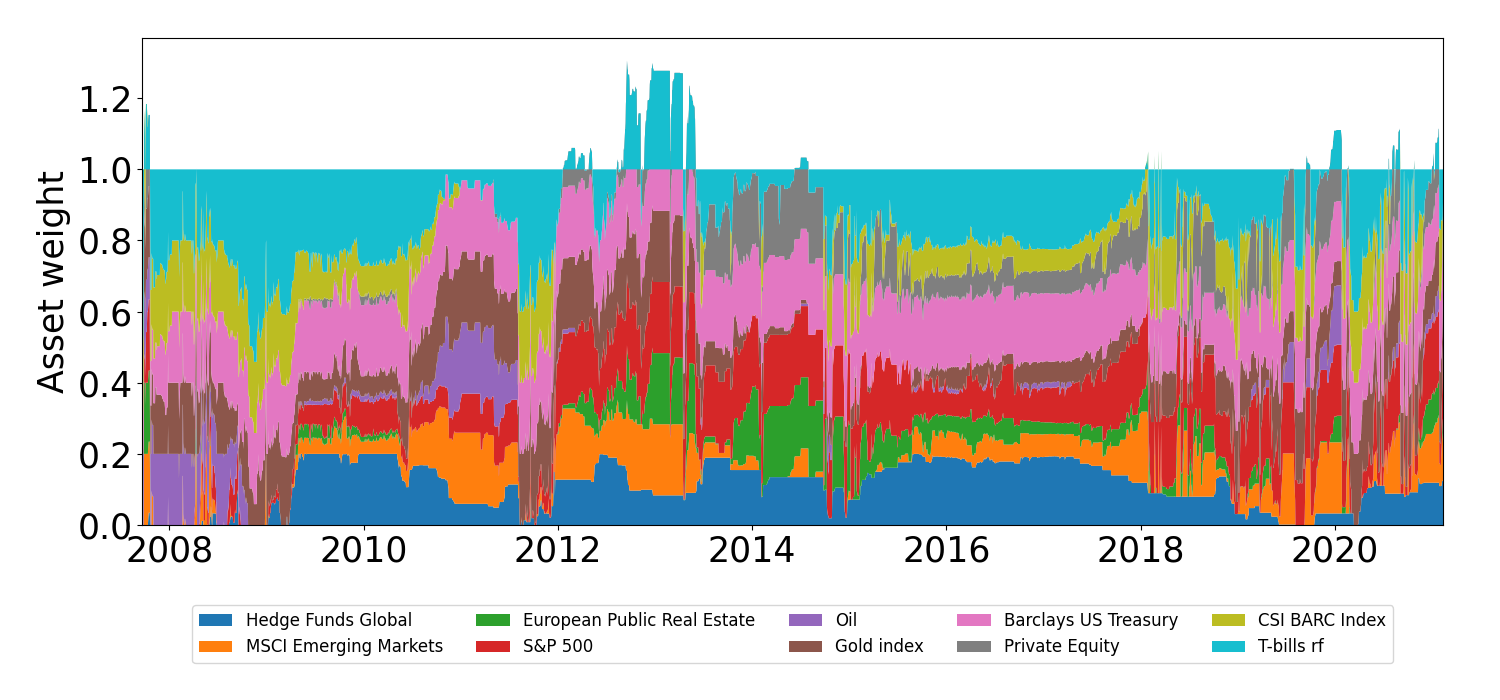
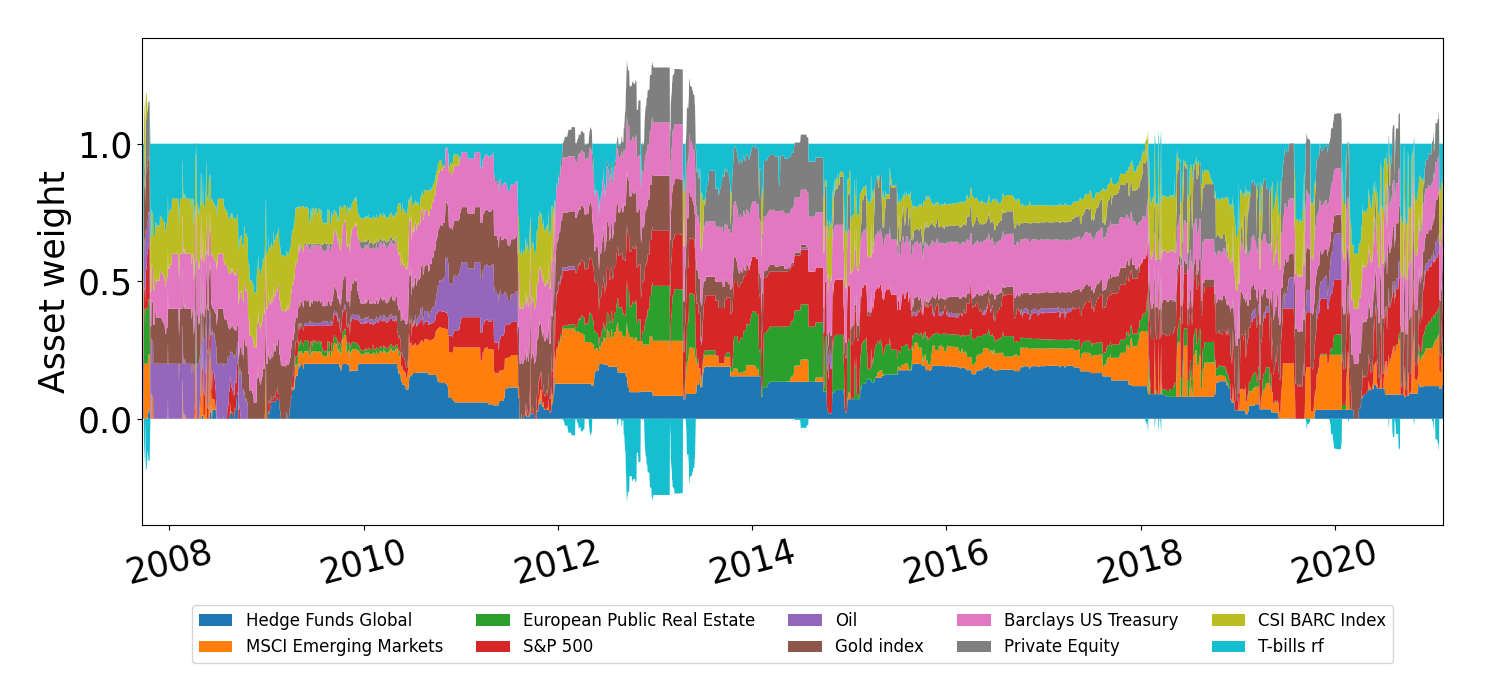
Updated graphs

diff --git a/analysis/portfolio_exercise/plot_frontiers.py b/analysis/portfolio_exercise/plot_frontiers.py
@@ -40,9 +40,57 @@ def plot_frontier(df_metrics, ew_metrics, savefig=None):
 
     plt.show()
 
-def plot_port_val(df_frontiers, ew_port_val,
-                  to_plots=[('LO', 1000), ('LO', 0.10), ('LO', 0.15)],
-                  start=None, savefig=None):
+def plot_sharpe_frontier(df_metrics, ew_metrics, savefig=None):
+    gammas = [1,3,5,10,15,25]
+    # Plotting
+    plt.rcParams.update({'font.size': 25})
+    fig, axes = plt.subplots(nrows=2, ncols=1, figsize=(15, 12), sharex=True)
+
+    #Plot ew portfolio
+    axes[0].axhline(ew_metrics['sharpe'], label='1/n', color='black', ls='--')
+    axes[1].axhline(ew_metrics['calmar_ratio'], label='1/n', color='black', ls='--')
+
+    for type, df_groupby in df_metrics.groupby(['short_cons', 'D_max']):
+        label = f'${type[0]}_{{D_{{max}}={type[1]}}}$' if type[1] < 1. else f'${type[0]}$'
+        axes[0].plot(gammas, df_groupby['sharpe'], label=label)
+        axes[1].plot(gammas, df_groupby['calmar_ratio'], label=label)
+
+    for ax in axes:
+        ax.set_xlabel('$\gamma_0$')
+
+    axes[0].set_ylabel('Sharpe ratio')
+    axes[1].set_ylabel('Calmar ratio')
+    plt.legend(fontsize=15)
+    plt.tight_layout()
+
+    if not savefig == None:
+        plt.savefig('./images/' + savefig)
+
+    plt.show()
+
+
+def plot_sharpe_calmar(df_metrics, ew_metrics, savefig=None):
+    # Plotting
+    plt.rcParams.update({'font.size': 25})
+    fig, ax = plt.subplots(nrows=1, ncols=1, figsize=(15, 12))
+
+    # Plot ew portfolio
+    ax.scatter(ew_metrics['calmar_ratio'] ,ew_metrics['sharpe'], label='1/n', color='black', ls='--')
+
+    for type, df_groupby in df_metrics.groupby(['short_cons', 'D_max']):
+        label = f'${type[0]}_{{D_{{max}}={type[1]}}}$' if type[1] < 1. else f'${type[0]}$'
+        ax.plot(df_groupby['calmar_ratio'], df_groupby['sharpe'], label=label)
+
+    ax.set_ylabel('Sharpe ratio')
+    ax.set_xlabel('Calmar ratio')
+    plt.legend(fontsize=15)
+    plt.tight_layout()
+
+    if not savefig == None:
+        plt.savefig('./images/' + savefig)
+    plt.show()
+
+def plot_port_val(df_frontiers, ew_port_val, savefig=None):
 
     # Plotting
     plt.rcParams.update({'font.size': 15})
@@ -54,7 +102,7 @@ def plot_port_val(df_frontiers, ew_port_val,
 
     ax.plot(data['timestamp'], ew_port_val, label='1/n')
 
-    # ax[0].set_yscale('log')
+    #ax.set_yscale('log')
     ax.set_ylabel('$P_t$')
     ax.tick_params('x', labelrotation=45)
     ax.legend(fontsize=15)
@@ -64,7 +112,6 @@ def plot_port_val(df_frontiers, ew_port_val,
     if not savefig == None:
         plt.savefig('./images/' + savefig)
     plt.show()
-
 
 if __name__ == "__main__":
     # Set path, model to test and in-sample vs. out-of-sample
@@ -85,8 +132,7 @@ if __name__ == "__main__":
 
     mpc = Backtester()
 
-
-    df_frontiers = pd.read_csv(path + 'frontiers.csv')
+    df_frontiers = pd.read_csv(path + 'frontiers_llo.csv')
     df_frontiers['timestamp'] = pd.to_datetime(df_frontiers['timestamp'])
     metrics = mpc.mulitple_port_metrics(df_port_val=df_frontiers)
     print(metrics)
@@ -94,7 +140,7 @@ if __name__ == "__main__":
     # Compute equal-weighted metrics
     equal_weigthed = Backtester()
     equal_weigthed.backtest_equal_weighted(data.rets, rebal_freq='M')
-    n_obs = len(df_frontiers[(df_frontiers['short_cons']== 'LO') & (df_frontiers['D_max'] == 0.1)])
+    n_obs = len(df_frontiers[(df_frontiers['short_cons']== 'LLO') & (df_frontiers['D_max'] == 0.1)])
     ew_port_val = equal_weigthed.port_val[-n_obs:]
     ew_port_val = ew_port_val / ew_port_val[0] * 1000
     ew_metrics = equal_weigthed.single_port_metric(data.prices,
@@ -103,11 +149,15 @@ if __name__ == "__main__":
     save = True
     if save == True:
         path = f'{model_str}/'
-        suffix = '_lo.png'
+        suffix = '_llo.png'
         plot_frontier(metrics, ew_metrics, savefig=path+'frontier'+suffix)
+        plot_sharpe_frontier(metrics, ew_metrics, savefig=path+'sharpe_frontier'+suffix)
+        plot_sharpe_calmar(metrics, ew_metrics, savefig=path+'sharpe_calmar'+suffix)
         plot_port_val(df_frontiers, ew_port_val, savefig=path+'port_vals'+suffix)
     else:
         plot_frontier(metrics, ew_metrics, savefig=None)
+        plot_sharpe_frontier(metrics, ew_metrics, savefig=None)
+        plot_sharpe_calmar(metrics, ew_metrics, savefig=None)
         plot_port_val(df_frontiers, ew_port_val, savefig=None)
 
     #equal_weigthed.backtest_equal_weighted(data.rets, rebal_freq='M')

diff --git a/analysis/portfolio_exercise/mpc_outsample.py b/analysis/portfolio_exercise/mpc_outsample.py
@@ -14,35 +14,30 @@ warnings.filterwarnings('ignore')
 pd.set_option('display.max_columns', 10); pd.set_option('display.width', 320)
 
 figsize = (15 ,7)
-def plot_port_weights(df, weights, start=None, constraints=None, show=True, savefig=None):
-    # Prepare data
-    df.dropna(inplace=True)
-    df = df.iloc[-len(weights):]
-    if not start == None:
-        df = df.loc[start:]
-        #weights = weights[-len(df):]
-
-    df = df / df.iloc[0] * 100
+def plot_port_weights(weights, constraints=None, savefig=None):
+    # Divide weights into positive and negative values
+    weights_neg, weights_pos = weights.clip(upper=0.), weights.clip(lower=0.)
 
     # Plotting
     plt.rcParams.update({'font.size': 25})
     fig, ax = plt.subplots(nrows = 1, ncols=1, figsize=figsize)
 
-    ax.stackplot(df.index, weights.T, labels=df.columns)
+    ax.stackplot(weights_pos.index, weights_pos.T, labels=weights.columns)
+    ax.stackplot(weights_neg.index, weights_neg.T)
 
     if constraints in ['long_only', 'LO']:
         ax.set_ylim(top=1.)
 
-    ax.set_xlim(df.index[0], df.index[-1])
+    ax.set_xlim(weights.index[0], weights.index[-1])
     ax.legend(loc='lower center', bbox_to_anchor=(0.5, -0.3), ncol=weights.shape[1]//2, fontsize=12)
     ax.set_ylabel('Asset weight')
+    ax.tick_params('x', labelrotation=15)
     plt.tight_layout()
 
     fig.subplots_adjust(bottom=0.25)
     if not savefig == None:
         plt.savefig('./images/' + savefig)
     plt.show()
-plot_port_weights(data.prices, mpc.weights, start=None, constraints='LLO')
 
 def plot_performance(df, port_val, weights, start=None, show=True, savefig=None):
     # Prepare data
@@ -109,7 +104,10 @@ if __name__ == "__main__":
                                rho2=holding_costs, gamma_0=5,
                                max_drawdown=0.1)
 
+    weights = pd.DataFrame(mpc.weights, columns=data.prices.columns, index=data.prices.index[-len(mpc.weights):])
+
     equal_weigthed.backtest_equal_weighted(data.rets, rebal_freq='M')
+
 
     metrics = mpc.single_port_metric(data.prices, mpc.port_val, compare_assets=True)
     print(metrics)
@@ -120,8 +118,11 @@ if __name__ == "__main__":
     save = True
     if save is True:
         path = f'{model_str}/'
-        suffix = '_ls.png'
-        plot_port_weights(data.prices, mpc.weights, start=None, constraints='LLO',
+        suffix = '_lo.png'
+        weights = pd.DataFrame(mpc.weights, columns=data.prices.columns, index=data.prices.index[-len(mpc.weights):])
+        plot_port_weights(weights, constraints='LO',
                           savefig=path+'weights'+suffix)
     else:
         plot_port_weights(data.prices, mpc.weights, start=None, constraints='LO')
+
+
